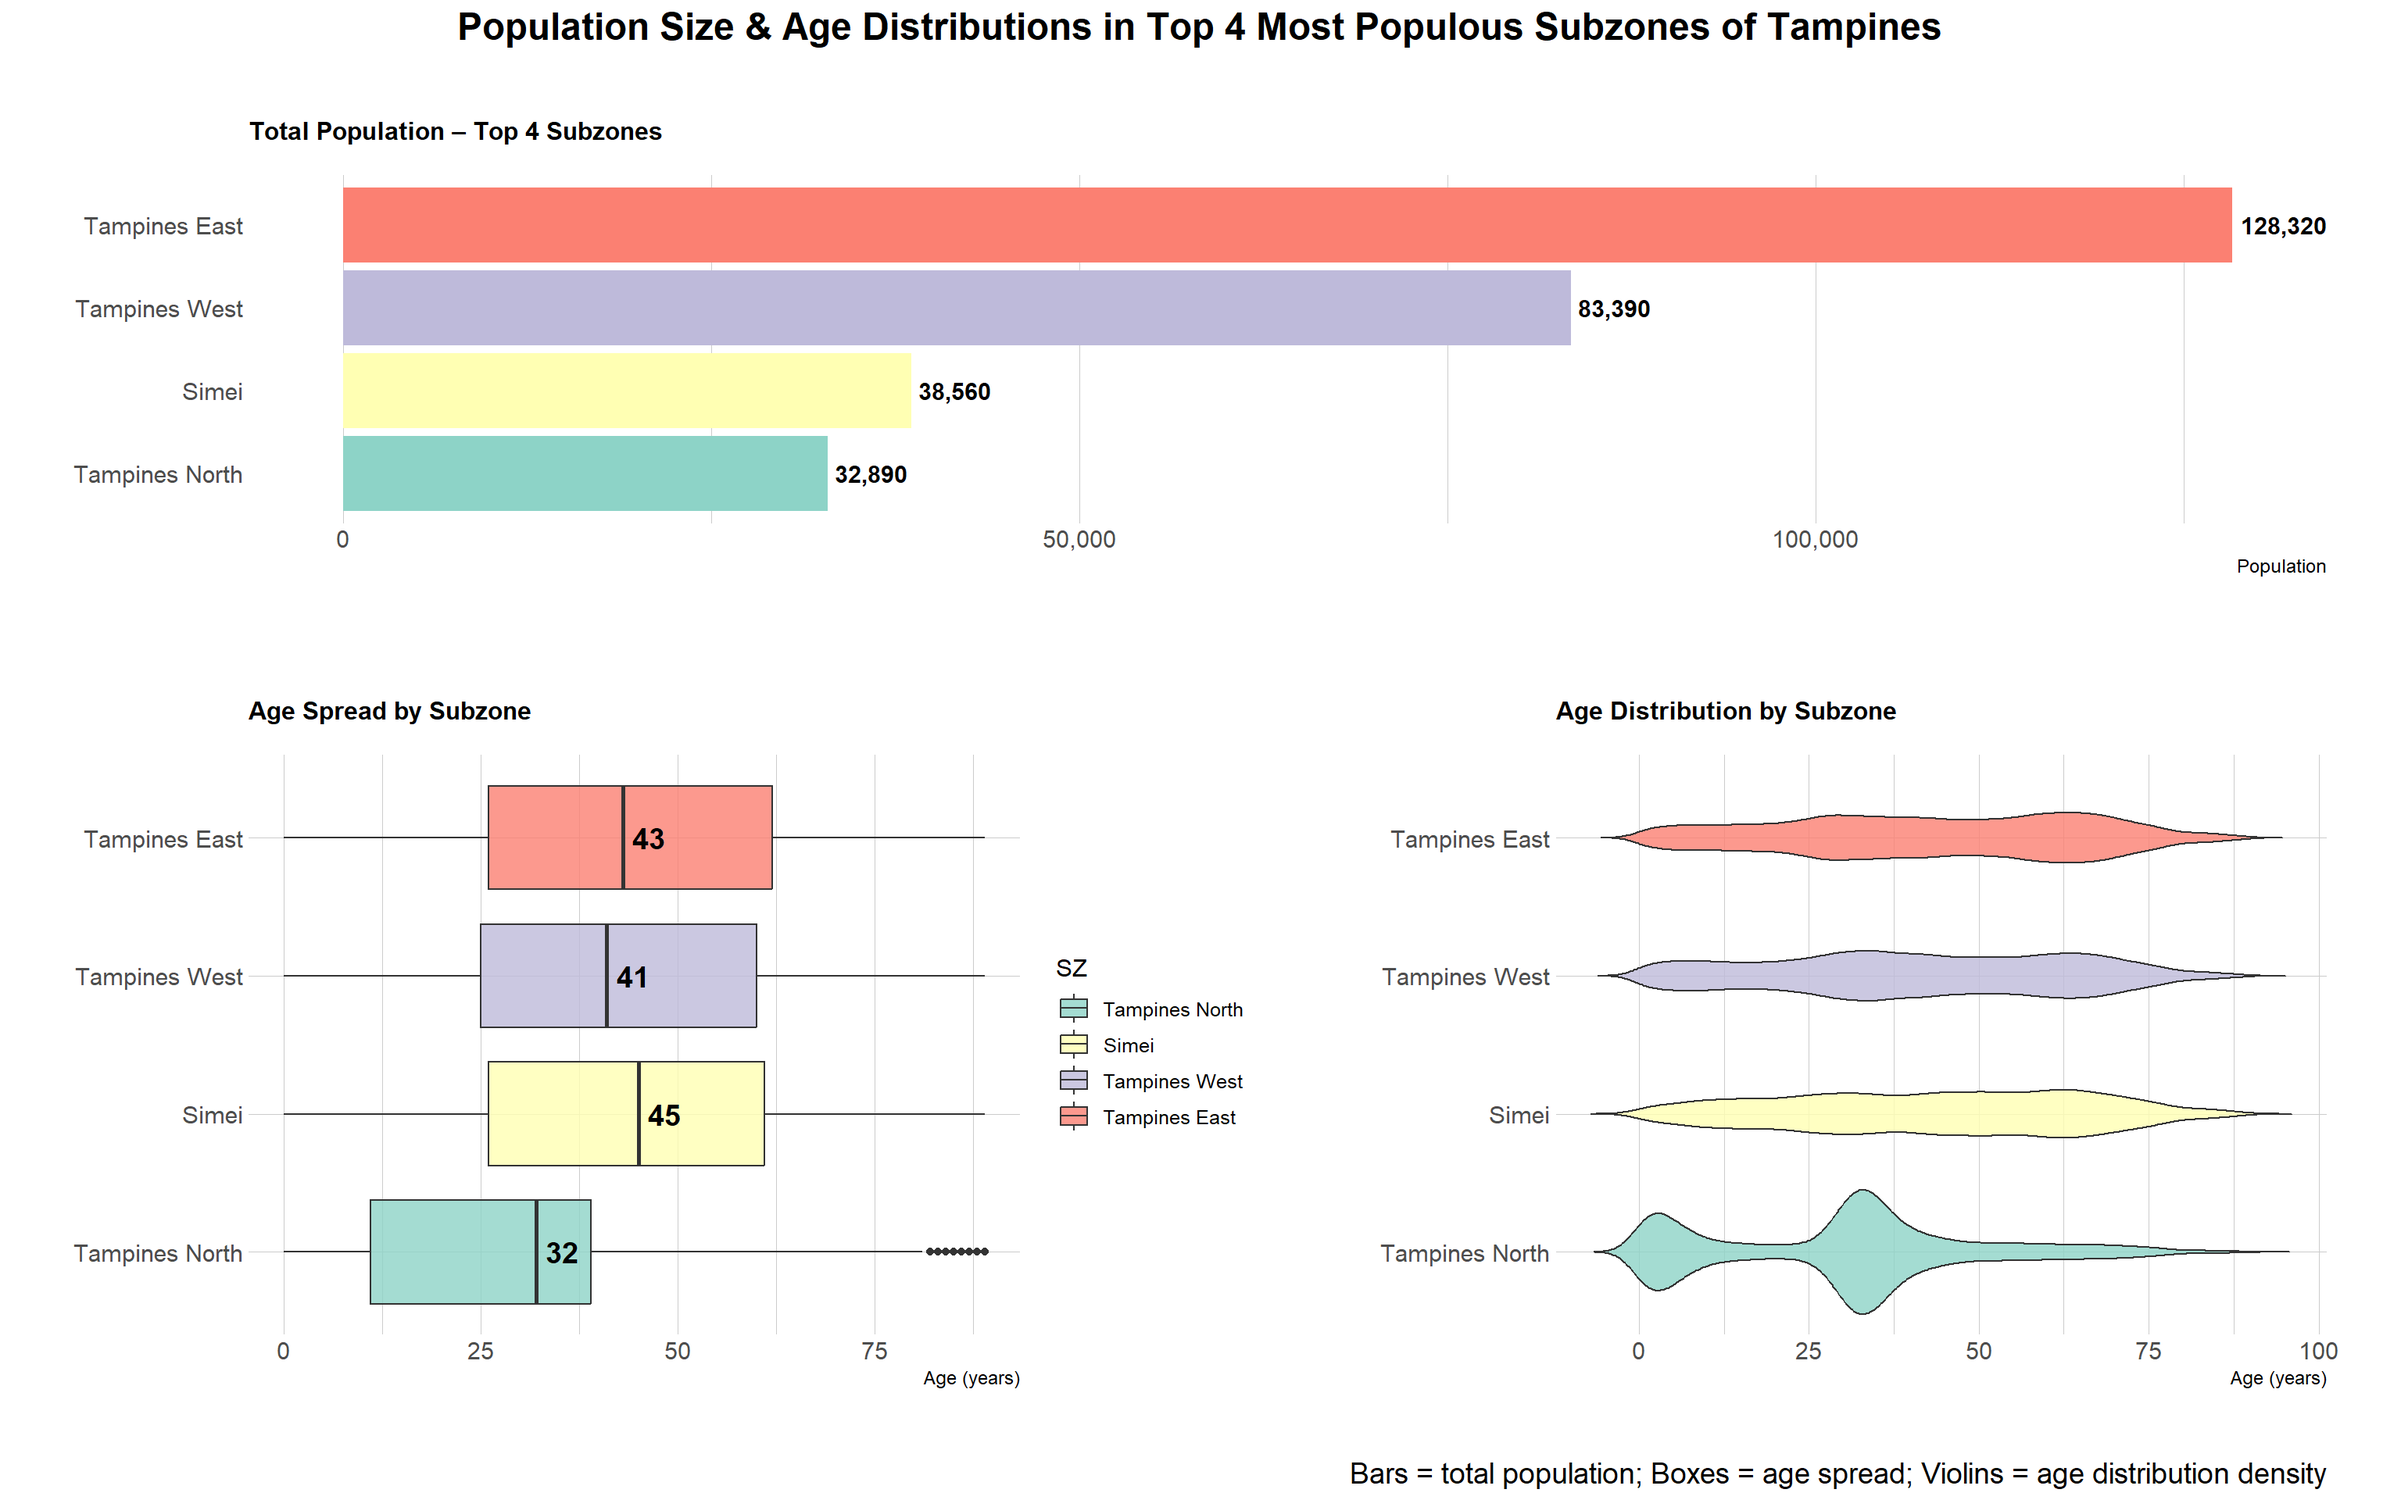
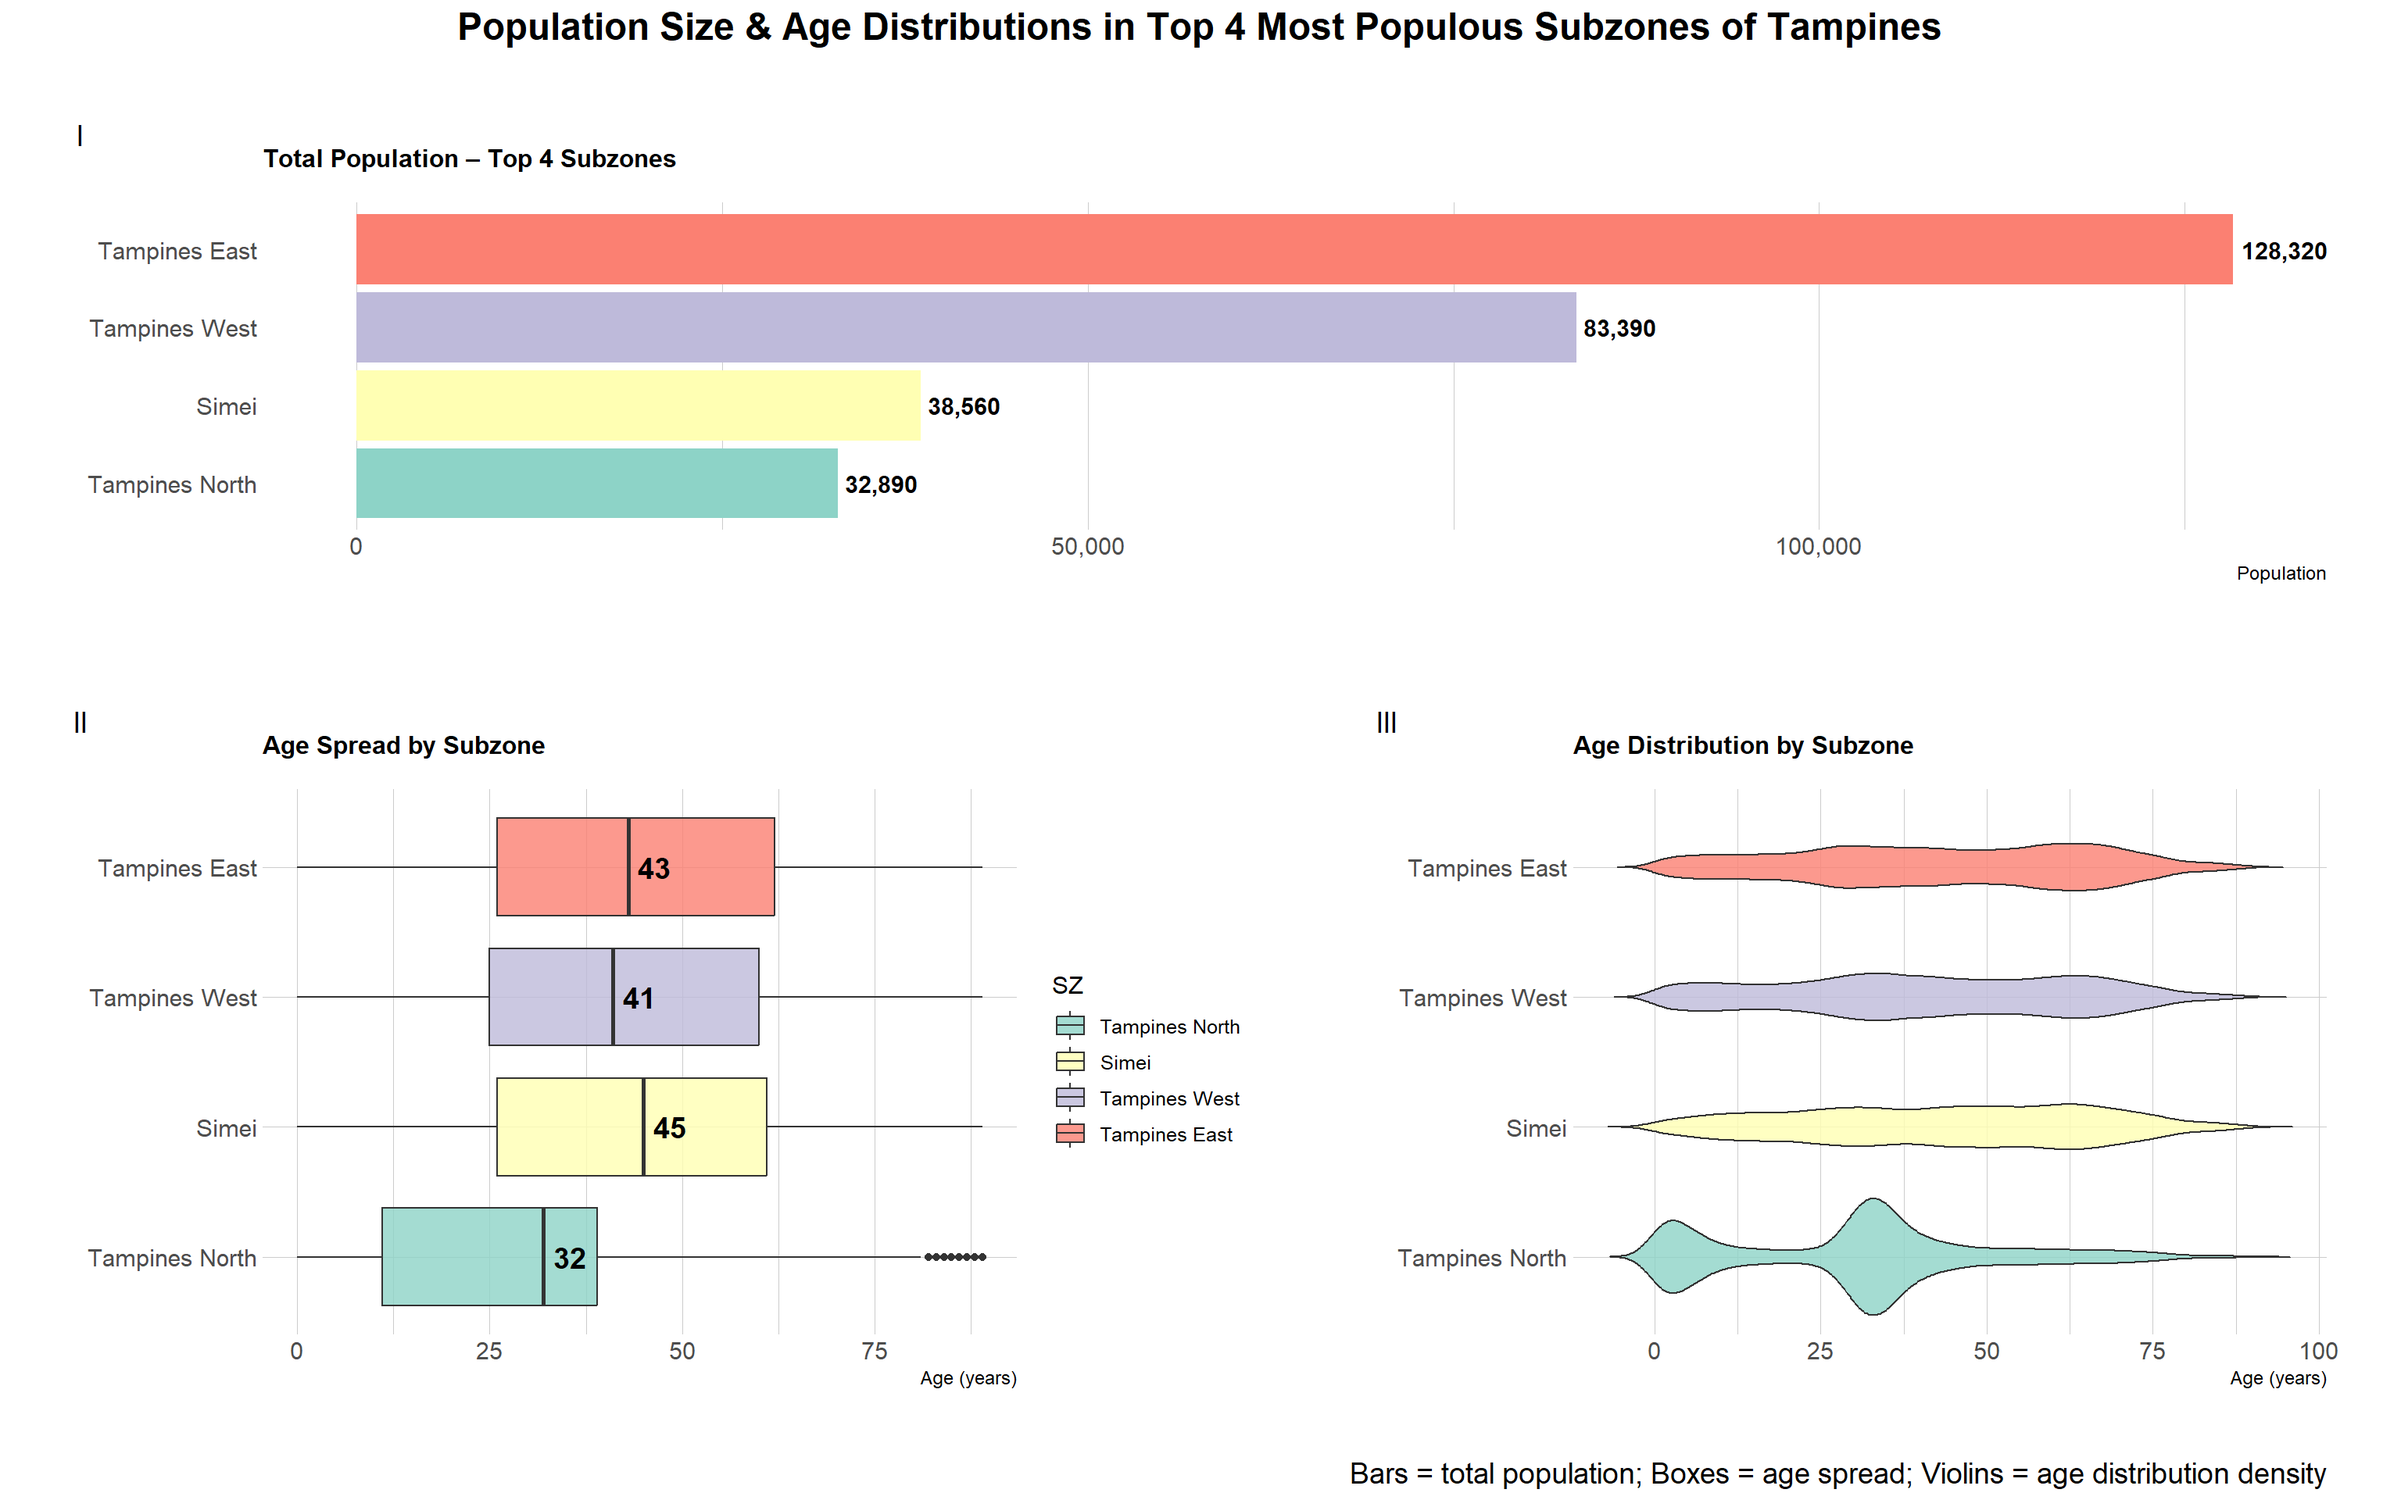
Adjust homepage

diff --git a/_site/Take-home_Ex/Take-home_Ex01/Take-home_Ex01_P2.html b/_site/Take-home_Ex/Take-home_Ex01/Take-home_Ex01_P2.html
@@ -525,8 +525,9 @@ pre > code.sourceCode > span > a:first-child::before { text-decoration: underlin
 <span id="cb6-73"><a href="#cb6-73" aria-hidden="true" tabindex="-1"></a>    <span class="at">theme =</span> <span class="fu">theme</span>(</span>
 <span id="cb6-74"><a href="#cb6-74" aria-hidden="true" tabindex="-1"></a>      <span class="at">plot.title =</span> <span class="fu">element_text</span>(<span class="at">hjust =</span> <span class="fl">0.5</span>, <span class="at">size =</span> <span class="dv">18</span>, <span class="at">face =</span> <span class="st">"bold"</span>),</span>
 <span id="cb6-75"><a href="#cb6-75" aria-hidden="true" tabindex="-1"></a>      <span class="at">plot.caption =</span> <span class="fu">element_text</span>(<span class="at">size =</span> <span class="dv">14</span>)</span>
-<span id="cb6-76"><a href="#cb6-76" aria-hidden="true" tabindex="-1"></a>    )</span>
-<span id="cb6-77"><a href="#cb6-77" aria-hidden="true" tabindex="-1"></a>  )</span></code><button title="Copy to Clipboard" class="code-copy-button"><i class="bi"></i></button></pre></div>
+<span id="cb6-76"><a href="#cb6-76" aria-hidden="true" tabindex="-1"></a>    ),</span>
+<span id="cb6-77"><a href="#cb6-77" aria-hidden="true" tabindex="-1"></a>    <span class="at">tag_levels =</span> <span class="st">"I"</span></span>
+<span id="cb6-78"><a href="#cb6-78" aria-hidden="true" tabindex="-1"></a>  )</span></code><button title="Copy to Clipboard" class="code-copy-button"><i class="bi"></i></button></pre></div>
 </div>
 </div>
 <div id="tabset-2-3" class="tab-pane" role="tabpanel" aria-labelledby="tabset-2-3-tab">

diff --git a/_site/index.html b/_site/index.html
@@ -194,12 +194,16 @@ ul.task-list li input[type="checkbox"] {
 </thead>
 <tbody>
 <tr class="odd">
-<td><a href="https://isss608-ay2425-qtd.netlify.app/take-home_ex/take-home_ex01/take-home_ex01">Take-home Ex01</a></td>
+<td><a href="https://isss608-ay2425-qtd.netlify.app/take-home_ex/take-home_ex01/take-home_ex01">Take-home Ex01 (Part 1)</a></td>
 <td>Singapore Demographic Analysis</td>
 </tr>
 <tr class="even">
-<td><a href="https://isss608-ay2425-qtd.netlify.app/hands-on_ex/hands-on_ex03/hands-on_ex03">Hands-on Ex03</a></td>
-<td>Programming Interactive Data Visualisation &amp; Animated Statistical Graphics with R</td>
+<td><a href="https://isss608-ay2425-qtd.netlify.app/take-home_ex/take-home_ex01/take-home_ex01_p2">Take-home Ex01 (Part 2)</a></td>
+<td>Visualization critic and makeover</td>
+</tr>
+<tr class="odd">
+<td><a href="https://isss608-ay2425-qtd.netlify.app/hands-on_ex/hands-on_ex04/hands-on_ex04">Hands-on Ex04</a></td>
+<td>Visualising Distribution, Statistical Analysis, Uncertainty &amp; Funnel Plots</td>
 </tr>
 </tbody>
 </table>
